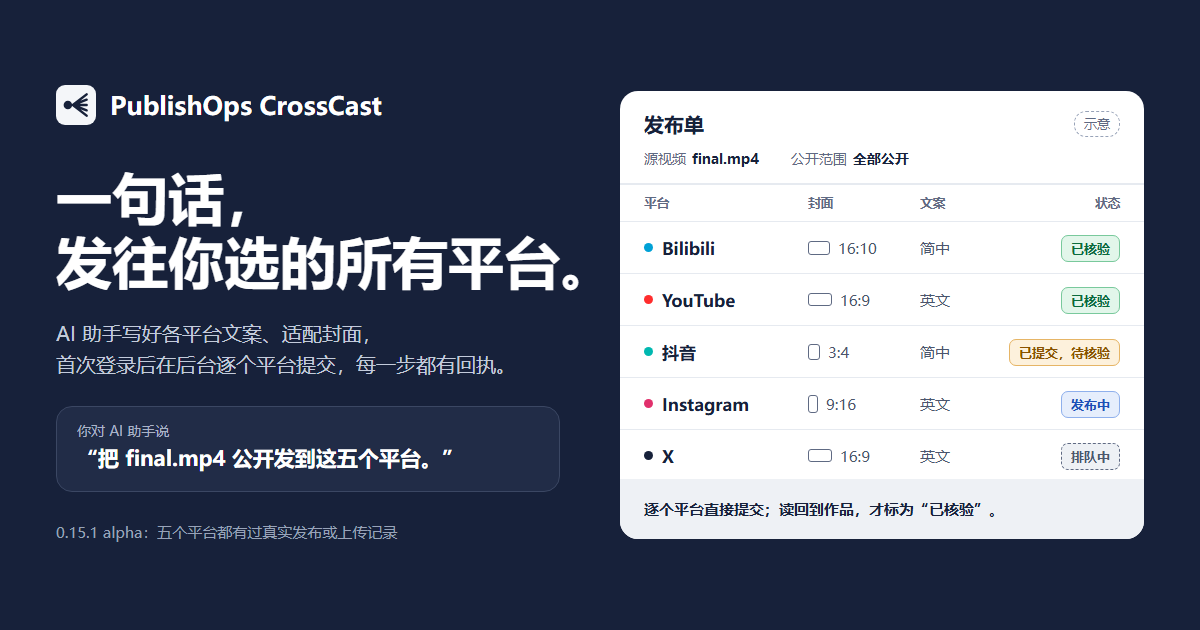
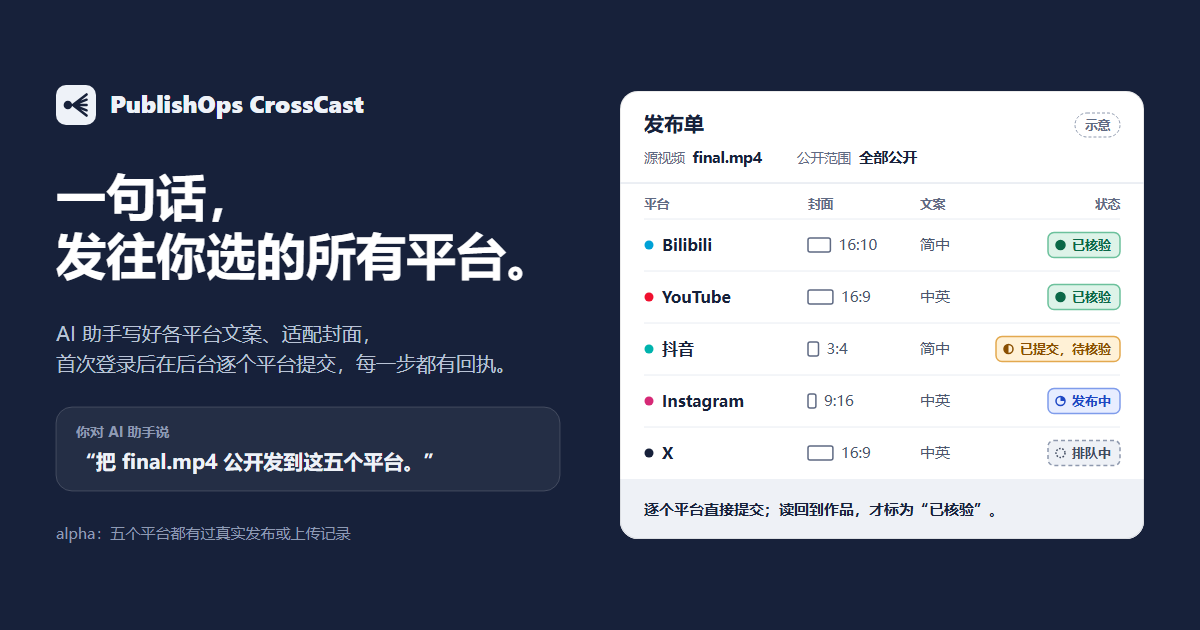
Correct the site and capabilities where they disagreed with the tool
Copy for a video in another language now reads as language_policy.route works,
with the original text first and then the platform's language, in the FAQ, the
example release plan, the hero images, FEATURES and DESIGN. The share image names
no version and is built from the new assets/og.svg. The cost FAQ lists what the
add-on covers, the cover step says Douyin and Instagram need a portrait cover, the
manual flow states the vpub init defaults, and capabilities no longer says there
is no free YouTube route. The alpha notes and READMEs say some real records come
from earlier versions, and the site mentions X's two websites.

Audit and patch from a separate session on this project; no design changes.

diff --git a/docs/site.js b/docs/site.js
@@ -20,11 +20,11 @@
     installPrompt: "幫我從 https://github.com/whitecarp/publishops-crosscast 安裝 PublishOps CrossCast，閱讀 skills/publishops-crosscast/SKILL.md 並執行 vpub doctor。然後把 final.mp4 公開發布到 B站、YouTube、抖音、Instagram 和 X，標題和簡介依平台來寫。",
     promptHint: "把 final.mp4 換成你的影片檔案；平台和公開範圍可以依需要修改。",
     ctaStart: "三步上手", ctaDocs: "閱讀文件",
-    alphaNote: "0.16.0 alpha：五個平台都有過真實發布或上傳記錄，但登入會過期，平台也可能臨時要求驗證，長時間無人值守還沒驗收。",
+    alphaNote: "0.16.0 alpha：五個平台都有過真實發布或上傳記錄（部分來自更早的版本），但登入會過期，平台也可能臨時要求驗證，長時間無人值守還沒驗收。",
     mfTitle: "發布單", mfTag: "示意", mfSrcVideo: "來源影片", mfSrcScript: "腳本", mfSrcScriptV: "簡體中文", mfSrcVis: "公開範圍", mfSrcVisV: "全部公開",
     mfColPlatform: "平台", mfColCover: "封面", mfColCopy: "文案", mfColState: "狀態",
     srCover: "封面：", srCopy: "文案語言：", srState: "狀態：",
-    langZh: "簡中", langEn: "英文",
+    langZh: "簡中", langBoth: "中英",
     pDy: "抖音",
     mfFoot: "逐一到各平台直接提交；讀回到作品，才標為「已核驗」。",
     howTitle: "你說一句，AI 助手去辦",
@@ -34,10 +34,10 @@
     s1a: "依平台各寫一版標題、簡介和標籤，直接提交到這兩個平台，並記錄每一步的回執。",
     s1n: "因為某個平台已登入就順手加上，或擅自改動公開範圍。",
     s2q: "封面依各平台尺寸調整一下，原圖別動。",
-    s2a: "依平台畫布另存一份封面，保留完整畫面。平台預覽仍可能裁切，提交前請看一眼。",
+    s2a: "依平台畫布另存一份封面，保留完整畫面。發抖音或 Instagram 還需要一張直式封面：AI 助手能畫就畫一張，不能畫就用 vpub covers portrait 從原圖挑內容重新排版。平台預覽仍可能裁切，提交前請看一眼。",
     s2n: "裁切、拉伸或覆蓋你的原圖。",
-    s3q: "B站和抖音用中文，YouTube 用英文。",
-    s3a: "依平台語言各寫一版：B站、抖音用簡體中文，YouTube、Instagram、X 用英文；要中英雙語時說一聲。",
+    s3q: "這支中文影片也發 YouTube，讓外國觀眾看得懂。",
+    s3a: "文案跟著影片語言走：B站、抖音用簡體中文，YouTube、Instagram、X 用英文；影片本身是別的語言時，先保留原文，再附上平台語言的譯文。所以這支在 YouTube 上是中文在前、英文在後。",
     s3n: "翻譯影片裡的配音或字幕。",
     s4q: "上次那支到底發出去沒有？",
     s4a: "查本機回執，依平台告訴你到了哪一步；能讀回的，再到平台上核對。",
@@ -59,8 +59,8 @@
     pIgRoute: "CLI 背景瀏覽器，封面在手機上改", pXRoute: "只能用 Media Studio（需訂閱）",
     testedPub: "已發布", testedYt: "API 和免費路徑", paused: "暫停",
     pTtNote: "CLI 會拒絕 TikTok 的登入和發布請求。",
-    platNote1: "YouTube：免費路徑由背景 Chrome 操作 YouTube Studio；官方 API 路徑需要付費附加元件。依 Google 的規定，2020 年 7 月 28 日之後建立、又沒通過審查的 API 專案，上傳的影片會被鎖定為私人。",
-    platNote2: "X：帳號必須已訂閱並能進入 Media Studio；未訂閱帳號的影片上限是 140 秒、512 MB，本工具不支援。",
+    platNote1: "YouTube：免費路徑由背景 Chrome 操作 YouTube Studio；官方 API 路徑需要付費附加元件。依 Google 的規定，2020 年 7 月 28 日之後建立、又沒通過審查的 API 專案，上傳的影片會被鎖定為私人。免費路徑目前只用一支私人短片實測過；公開上傳、上傳時加入播放清單和排程發布還沒在真實頻道上試過。",
+    platNote2: "X：帳號必須已訂閱並能進入 Media Studio；未訂閱帳號的影片上限是 140 秒、512 MB，本工具不支援。X 目前有兩個版本的網站，CrossCast 兩種都支援；新版還沒有在已登入帳號上試過。",
     platNote3: "抖音：長時間維持登入的穩定性還在驗收；網頁上傳中斷後不能續傳，要先檢查既有的草稿。",
     platNote4: "暫不支援：TikTok、YouTube 資訊卡和可點擊片尾、自動或批次的私訊和按讚、完整歷史匯出。",
     startTitle: "三步，從安裝到第一次發布",
@@ -70,7 +70,7 @@
     st3: "說一句，直接發布", st3d: "告訴 AI 助手影片檔案、要發的平台和公開範圍，它就逐一到各平台提交並記錄回執。第一次登入各平台時，掃碼和驗證碼由你完成；之後 CLI 在背景沿用登入。",
     copyInstallA: "複製安裝指令", copyDoctorA: "複製 vpub doctor", copyCapsA: "複製 vpub capabilities",
     manualSum: "想自己動手？看手動流程",
-    manualNote: "<code>--dry-run</code> 不會上傳。<code>response.json</code> 由 AI 助手依 <code>request.json</code> 裡的範本撰寫。",
+    manualNote: "<code>--dry-run</code> 不會上傳。<code>response.json</code> 由 AI 助手依 <code>request.json</code> 裡的範本撰寫。<code>vpub init</code> 預設宣告為 AI 生成內容，YouTube 預設私人，Instagram 和 X 跟隨帳號設定；一般影片加 <code>--ai-generated no</code>，要改公開範圍就在 <code>vpub init</code> 之後馬上改 <code>publish.json</code> 裡的 <code>visibility</code>。",
     faqTitle: "常見問題",
     faqSub: "沒找到答案？可以到 <a href=\"" + REPO + "/issues\" rel=\"noopener\">GitHub</a> 提問，提問前請先移除帳號和私密資訊。",
     q0: "發布前還要我再確認嗎？", a0: "不用。你說要發布，就是授權：它依你說的平台、帳號和公開範圍直接提交。只有內容、帳號、平台、受眾或任務範圍變了，它才會再問你。想先看一眼，就說「先別發」，或用 <code>--dry-run</code> 預演。",
@@ -80,9 +80,9 @@
     q4: "進了佇列或有了回執，就算發出去了嗎？", a4: "不算。排隊只說明任務已記錄；本機回執記錄每一步的證據，但它本身不代替平台證據。是否發布成功，以平台頁面讀回或平台 API 為準。",
     q5: "會改動我的原影片和封面嗎？", a5: "不會。調整後的封面另存為新檔案，原圖保持不變；發 Instagram 時直接使用原影片，不轉檔。",
     q6: "會不會發到我沒選的平台？", a6: "不會因為某個平台已登入就把它加進來。平台、帳號和公開範圍由你選定；內容、帳號、平台、受眾或任務範圍有變化時，會重新請你確認。",
-    q7: "要花錢嗎？", a7: "CrossCast 核心開源免費（MIT）；X、Instagram 和 YouTube 的官方 API 路徑是付費附加元件。你的 AI 助手訂閱、X 的訂閱（發布要用 Media Studio），以及 YouTube API 的配額可能另有費用或限制，本專案不承諾免費或無限使用。",
+    q7: "要花錢嗎？", a7: "CrossCast 核心開源免費（MIT）。付費附加元件包括 X、Instagram 和 YouTube 的官方 API 路徑、營運報告、完整讀取、郵件提醒、播放清單排序和 YouTube 待審核留言佇列。你的 AI 助手訂閱、X 的訂閱（發布要用 Media Studio），以及 YouTube API 的配額可能另有費用或限制，本專案不承諾免費或無限使用。",
     q8: "支援留言、私訊和數據嗎？TikTok 呢？", a8: "支援讀留言並回覆、按讚和收藏，在抖音、Instagram、X 上讀發私訊，查看作品數據，營運報告屬於付費附加元件；各平台能做的不一樣，每次只處理你授權的那一則，不會批次傳送。TikTok 目前暫停支援。",
-    q9: "現在能放心用於正式發布嗎？", a9: "目前是 0.16.0 alpha。五個平台都有過真實發布或上傳記錄，但登入會過期，平台也可能臨時要求驗證，長時間無人值守還沒驗收。第一次用時，可以先用預演（<code>--dry-run</code>）看一遍方案，再正式發布。",
+    q9: "現在能放心用於正式發布嗎？", a9: "目前是 0.16.0 alpha。五個平台都有過真實發布或上傳記錄（部分來自更早的版本），但登入會過期，平台也可能臨時要求驗證，長時間無人值守還沒驗收。第一次用時，可以先用預演（<code>--dry-run</code>）看一遍方案，再正式發布。",
     endTitle: "核心開源免費，歡迎一起完善",
     endSub: "MIT 授權。遇到問題或想支援新平台，歡迎到 GitHub 提 Issue；提交前請先移除帳號和私密資訊。",
     ctaGh: "在 GitHub 查看", ctaIssue: "回報問題",
@@ -103,11 +103,11 @@
     installPrompt: "Install PublishOps CrossCast from https://github.com/whitecarp/publishops-crosscast, read skills/publishops-crosscast/SKILL.md and run vpub doctor. Then publish final.mp4 publicly to Bilibili, YouTube, Douyin, Instagram and X, with titles and descriptions written for each platform.",
     promptHint: "Replace final.mp4 with your video file, and change the platforms or visibility as you like.",
     ctaStart: "Get started in 3 steps", ctaDocs: "Read the docs",
-    alphaNote: "0.16.0 alpha: all five platforms have real publishing or upload records, but sign-ins expire, platforms may ask for verification at any time, and long unattended runs have not been validated.",
+    alphaNote: "0.16.0 alpha: all five platforms have real publishing or upload records, some from earlier versions, but sign-ins expire, platforms may ask for verification at any time, and long unattended runs have not been validated.",
     mfTitle: "Release plan", mfTag: "Example", mfSrcVideo: "Source", mfSrcScript: "Script", mfSrcScriptV: "Simplified Chinese", mfSrcVis: "Visibility", mfSrcVisV: "All public",
     mfColPlatform: "Platform", mfColCover: "Cover", mfColCopy: "Copy", mfColState: "Status",
     srCover: "Cover: ", srCopy: "Copy language: ", srState: "Status: ",
-    langZh: "Chinese", langEn: "English",
+    langZh: "ZH", langBoth: "ZH + EN",
     pDy: "Douyin",
     mfFoot: "Submitted platform by platform. Marked Verified only after the work is read back.",
     howTitle: "Say it once, your AI assistant handles it",
@@ -117,10 +117,10 @@
     s1a: "Writes a title, description and tags for each platform, submits to both directly, and keeps a receipt for every step.",
     s1n: "Add a platform just because you are signed in to it, or quietly change the visibility.",
     s2q: "Fit the cover to each platform, and leave the original alone.",
-    s2a: "Saves a new cover for each platform canvas, keeping the whole image. Platform previews may still crop it, so take a look before submitting.",
+    s2a: "Saves a new cover for each platform canvas, keeping the whole image. Douyin and Instagram also need a portrait cover: your assistant draws one if it can, or builds one from parts of your image with vpub covers portrait. Platform previews may still crop it, so take a look before submitting.",
     s2n: "Crop, stretch or overwrite your original image.",
-    s3q: "Chinese for Bilibili and Douyin, English for YouTube.",
-    s3a: "Writes each platform's copy in its language: Simplified Chinese for Bilibili and Douyin, English for YouTube, Instagram and X. Ask if you want both languages.",
+    s3q: "Post this Chinese video to YouTube too, so English viewers can follow it.",
+    s3a: "Copy follows the video's language: Simplified Chinese for Bilibili and Douyin, English for YouTube, Instagram and X. When the video is in another language, the original text comes first, followed by a translation, so on YouTube this one reads Chinese first, then English.",
     s3n: "Translate the video's voice-over or subtitles.",
     s4q: "Did my last video actually go out?",
     s4a: "Reads the local receipts and tells you how far each platform got, then checks the platform itself where a readback is available.",
@@ -142,8 +142,8 @@
     pIgRoute: "CLI background browser; cover changed on your phone", pXRoute: "Media Studio only (subscription required)",
     testedPub: "Published", testedYt: "API and free route", paused: "Paused",
     pTtNote: "The CLI refuses TikTok sign-in and posting requests.",
-    platNote1: "YouTube: the free route uses YouTube Studio in a background Chrome; official API routes need the paid add-on. Under Google's rules, videos uploaded by an API project created after July 28, 2020 that has not passed Google's audit are locked to private.",
-    platNote2: "X: the account must be subscribed and able to open Media Studio. Accounts without it are limited to 140-second, 512 MB videos, which this tool does not support.",
+    platNote1: "YouTube: the free route uses YouTube Studio in a background Chrome; official API routes need the paid add-on. Under Google's rules, videos uploaded by an API project created after July 28, 2020 that has not passed Google's audit are locked to private. The free route has only been run for real with a short private clip; public uploads, playlists at upload and scheduling have not been tried on a real channel yet.",
+    platNote2: "X: the account must be subscribed and able to open Media Studio. Accounts without it are limited to 140-second, 512 MB videos, which this tool does not support. X currently serves two versions of its website; CrossCast handles both, and the rebuilt one has not been tried on a signed-in account.",
     platNote3: "Douyin: long-term sign-in stability is still being validated, and an interrupted web upload cannot resume, so check existing drafts first.",
     platNote4: "Not available yet: TikTok, YouTube cards and clickable end screens, automatic or bulk messages and likes, and full history export.",
     startTitle: "Three steps from install to your first release",
@@ -153,7 +153,7 @@
     st3: "Say it, and it publishes", st3d: "Tell your AI assistant the video file, the platforms and the visibility, and it submits to each platform in turn and keeps receipts. The first time you sign in to each platform, you handle QR codes and verification codes; after that, the CLI reuses the sign-in in the background.",
     copyInstallA: "Copy install command", copyDoctorA: "Copy vpub doctor", copyCapsA: "Copy vpub capabilities",
     manualSum: "Prefer to do it yourself? See the manual flow",
-    manualNote: "<code>--dry-run</code> does not upload. Your AI assistant writes <code>response.json</code> from the template in <code>request.json</code>.",
+    manualNote: "<code>--dry-run</code> does not upload. Your AI assistant writes <code>response.json</code> from the template in <code>request.json</code>. <code>vpub init</code> declares the video as AI-generated, keeps YouTube private and follows the account's setting on Instagram and X. For an ordinary video add <code>--ai-generated no</code>, and to change visibility, edit <code>visibility</code> in <code>publish.json</code> right after <code>vpub init</code>.",
     faqTitle: "Questions",
     faqSub: "Not covered here? <a href=\"" + REPO + "/issues\" rel=\"noopener\">Ask on GitHub</a>, and remove account details and private information first.",
     q0: "Do I have to approve each release?", a0: "No. Asking it to publish is the authorization: it submits directly with the platforms, accounts and visibility you named, and only asks again if the content, account, platform, audience or scope changes. To look first, say \u201cdon\u2019t post yet\u201d, or run a <code>--dry-run</code>.",
@@ -163,9 +163,9 @@
     q4: "If it is queued or has a receipt, is it published?", a4: "No. Queued only means the task is recorded. Local receipts record the evidence for each step but are not proof from the platform. Whether it was published is decided by reading back the platform page or the platform API.",
     q5: "Will it change my original video or cover?", a5: "No. Fitted covers are saved as new files and your original image stays as it is. Instagram uploads use the original video without transcoding.",
     q6: "Could it post to a platform I didn't pick?", a6: "It will not add a platform just because you are signed in to it. You choose platforms, accounts and visibility; if the content, account, platform, audience or scope changes, it asks you again.",
-    q7: "Does it cost anything?", a7: "The CrossCast core is free and open source (MIT); official API routes for X, Instagram and YouTube are a paid add-on. Your AI assistant subscription, an X subscription (publishing needs Media Studio) and YouTube API quota may have their own costs or limits; this project does not promise free or unlimited use.",
+    q7: "Does it cost anything?", a7: "The CrossCast core is free and open source (MIT). The paid add-on covers official API routes for X, Instagram and YouTube, operations reports, complete reads, email reminders, playlist reordering and YouTube's held-for-review comment queue. Your AI assistant subscription, an X subscription (publishing needs Media Studio) and YouTube API quota may have their own costs or limits; this project does not promise free or unlimited use.",
     q8: "Does it handle comments, messages and stats? What about TikTok?", a8: "It can read and reply to comments, like and save works, read and send direct messages on Douyin, Instagram and X, and show work stats; operations reports are in the paid add-on. What's available differs by platform, each action covers only the single item you authorized, and nothing is sent in bulk. TikTok support is paused.",
-    q9: "Is it ready for real releases?", a9: "This is 0.16.0 alpha. All five platforms have real publishing or upload records, but sign-ins expire, platforms may ask for verification at any time, and long unattended runs have not been validated. The first time, you can run a dry run (<code>--dry-run</code>) to review the plan before publishing for real.",
+    q9: "Is it ready for real releases?", a9: "This is 0.16.0 alpha. All five platforms have real publishing or upload records, some from earlier versions, but sign-ins expire, platforms may ask for verification at any time, and long unattended runs have not been validated. The first time, you can run a dry run (<code>--dry-run</code>) to review the plan before publishing for real.",
     endTitle: "Free, open-source core. Help make it better.",
     endSub: "MIT licensed. Found a problem or want another platform? Open an issue on GitHub, and remove account details and private information first.",
     ctaGh: "View on GitHub", ctaIssue: "Report a problem",

diff --git a/docs/index.html b/docs/index.html
@@ -94,7 +94,7 @@
           <a class="btn btn-primary" href="#start" data-i18n="ctaStart">三步上手</a>
           <a class="btn btn-quiet" href="https://github.com/whitecarp/publishops-crosscast#readme" rel="noopener" data-doc data-i18n="ctaDocs">阅读文档</a>
         </div>
-        <p class="alpha-note" data-i18n="alphaNote">0.16.0 alpha：五个平台都有过真实发布或上传记录，但登录会过期，平台也可能临时要求验证，长时间无人值守还没验收。</p>
+        <p class="alpha-note" data-i18n="alphaNote">0.16.0 alpha：五个平台都有过真实发布或上传记录（部分来自更早的版本），但登录会过期，平台也可能临时要求验证，长时间无人值守还没验收。</p>
       </div>
 
       <figure class="manifest" aria-labelledby="mfTitle">
@@ -121,7 +121,7 @@
           <li class="mf-row" style="--i:1">
             <span class="mf-platform"><i class="dot dot-yt" aria-hidden="true"></i>YouTube</span>
             <span class="mf-cover"><span class="sr" data-i18n="srCover">封面：</span><i class="canvas" style="--ar:16/9" aria-hidden="true"></i>16:9</span>
-            <span class="mf-copy"><span class="sr" data-i18n="srCopy">文案语言：</span><span data-i18n="langEn">英文</span></span>
+            <span class="mf-copy"><span class="sr" data-i18n="srCopy">文案语言：</span><span data-i18n="langBoth">中英</span></span>
             <span class="mf-state"><span class="sr" data-i18n="srState">状态：</span><span class="stamp stamp-ok" data-i18n="stOk">已核验</span></span>
           </li>
           <li class="mf-row" style="--i:2">
@@ -133,13 +133,13 @@
           <li class="mf-row" style="--i:3">
             <span class="mf-platform"><i class="dot dot-ig" aria-hidden="true"></i>Instagram</span>
             <span class="mf-cover"><span class="sr" data-i18n="srCover">封面：</span><i class="canvas" style="--ar:9/16" aria-hidden="true"></i>9:16</span>
-            <span class="mf-copy"><span class="sr" data-i18n="srCopy">文案语言：</span><span data-i18n="langEn">英文</span></span>
+            <span class="mf-copy"><span class="sr" data-i18n="srCopy">文案语言：</span><span data-i18n="langBoth">中英</span></span>
             <span class="mf-state"><span class="sr" data-i18n="srState">状态：</span><span class="stamp stamp-run" data-i18n="stRun">发布中</span></span>
           </li>
           <li class="mf-row" style="--i:4">
             <span class="mf-platform"><i class="dot dot-x" aria-hidden="true"></i>X</span>
             <span class="mf-cover"><span class="sr" data-i18n="srCover">封面：</span><i class="canvas" style="--ar:16/9" aria-hidden="true"></i>16:9</span>
-            <span class="mf-copy"><span class="sr" data-i18n="srCopy">文案语言：</span><span data-i18n="langEn">英文</span></span>
+            <span class="mf-copy"><span class="sr" data-i18n="srCopy">文案语言：</span><span data-i18n="langBoth">中英</span></span>
             <span class="mf-state"><span class="sr" data-i18n="srState">状态：</span><span class="stamp stamp-queue" data-i18n="stQueue">排队中</span></span>
           </li>
         </ol>
@@ -167,12 +167,12 @@
           </li>
           <li class="pb-row">
             <p class="pb-say"><span class="sr" data-i18n="pbSaySr">你可以这样说：</span><q data-i18n="s2q">封面按各平台尺寸适配一下，原图别动。</q></p>
-            <p class="pb-do"><span class="pb-label" data-i18n="pbDo">它会做什么</span><span data-i18n="s2a">按平台画布另存一份封面，保留完整画面。平台预览仍可能裁切，提交前请看一眼。</span></p>
+            <p class="pb-do"><span class="pb-label" data-i18n="pbDo">它会做什么</span><span data-i18n="s2a">按平台画布另存一份封面，保留完整画面。发抖音或 Instagram 还需要一张竖版封面：AI 助手能画就画一张，不能画就用 vpub covers portrait 从原图挑内容重新排版。平台预览仍可能裁切，提交前请看一眼。</span></p>
             <p class="pb-not"><span class="pb-label" data-i18n="pbNot">它不会</span><span data-i18n="s2n">裁切、拉伸或覆盖你的原图。</span></p>
           </li>
           <li class="pb-row">
-            <p class="pb-say"><span class="sr" data-i18n="pbSaySr">你可以这样说：</span><q data-i18n="s3q">B站和抖音用中文，YouTube 用英文。</q></p>
-            <p class="pb-do"><span class="pb-label" data-i18n="pbDo">它会做什么</span><span data-i18n="s3a">按平台语言各写一版：B站、抖音用简体中文，YouTube、Instagram、X 用英文；要中英双语时说一声。</span></p>
+            <p class="pb-say"><span class="sr" data-i18n="pbSaySr">你可以这样说：</span><q data-i18n="s3q">这条中文视频也发 YouTube，让外国观众看得懂。</q></p>
+            <p class="pb-do"><span class="pb-label" data-i18n="pbDo">它会做什么</span><span data-i18n="s3a">文案跟着视频语言走：B站、抖音用简体中文，YouTube、Instagram、X 用英文；视频本身是别的语言时，先保留原文，再附上平台语言的译文。所以这条在 YouTube 上是中文在前、英文在后。</span></p>
             <p class="pb-not"><span class="pb-label" data-i18n="pbNot">它不会</span><span data-i18n="s3n">翻译视频里的配音或字幕。</span></p>
           </li>
           <li class="pb-row">
@@ -260,8 +260,8 @@
         </table>
       </div>
       <ul class="notes">
-        <li data-i18n="platNote1">YouTube：免费路径由后台 Chrome 操作 YouTube Studio；官方 API 路径需要付费附加组件。按 Google 的规定，2020 年 7 月 28 日之后创建、又没通过审核的 API 项目，上传的视频会被锁成私享。</li>
-        <li data-i18n="platNote2">X：账号必须已订阅并能进入 Media Studio；未订阅账号的视频上限是 140 秒、512 MB，本工具不支持。</li>
+        <li data-i18n="platNote1">YouTube：免费路径由后台 Chrome 操作 YouTube Studio；官方 API 路径需要付费附加组件。按 Google 的规定，2020 年 7 月 28 日之后创建、又没通过审核的 API 项目，上传的视频会被锁成私享。免费路径目前只用一条私享短片实测过；公开上传、上传时加入播放列表和定时发布还没在真实频道上试过。</li>
+        <li data-i18n="platNote2">X：账号必须已订阅并能进入 Media Studio；未订阅账号的视频上限是 140 秒、512 MB，本工具不支持。X 目前有两个版本的网站，CrossCast 两种都支持；新版还没有在已登录账号上试过。</li>
         <li data-i18n="platNote3">抖音：长时间保持登录的稳定性还在验收；网页上传中断后不能续传，要先检查已有草稿。</li>
         <li data-i18n="platNote4">暂不支持：TikTok、YouTube 卡片和可点击片尾、自动或批量的私信和点赞、完整历史导出。</li>
       </ul>
@@ -301,7 +301,7 @@ vpub plan ready.json
 vpub publish ready.json --dry-run
 vpub publish ready.json --confirm &lt;confirmation-code&gt;
 vpub verify RECEIPT_KEY</code></pre>
-        <p data-i18n-html="manualNote"><code>--dry-run</code> 不会上传。<code>response.json</code> 由 AI 助手按 <code>request.json</code> 里的模板撰写。</p>
+        <p data-i18n-html="manualNote"><code>--dry-run</code> 不会上传。<code>response.json</code> 由 AI 助手按 <code>request.json</code> 里的模板撰写。<code>vpub init</code> 默认声明为 AI 生成内容，YouTube 默认私享，Instagram 和 X 跟随账号设置；普通视频加 <code>--ai-generated no</code>，要改公开范围就在 <code>vpub init</code> 之后马上改 <code>publish.json</code> 里的 <code>visibility</code>。</p>
       </details>
     </div>
   </section>
@@ -320,9 +320,9 @@ vpub verify RECEIPT_KEY</code></pre>
         <details><summary data-i18n="q4">进了队列或有了回执，就算发出去了吗？</summary><p data-i18n="a4">不算。排队只说明任务已记录；本地回执记录每一步的证据，但它本身不代替平台证据。是否发布成功，以平台页面读回或平台 API 为准。</p></details>
         <details><summary data-i18n="q5">会改动我的原视频和封面吗？</summary><p data-i18n="a5">不会。适配后的封面另存为新文件，原图保持不变；发 Instagram 时直接使用原视频，不转码。</p></details>
         <details><summary data-i18n="q6">会不会发到我没选的平台？</summary><p data-i18n="a6">不会因为某个平台已登录就把它加进来。平台、账号和公开范围由你选定；内容、账号、平台、受众或任务范围有变化时，会重新请你确认。</p></details>
-        <details><summary data-i18n="q7">要花钱吗？</summary><p data-i18n="a7">CrossCast 核心开源免费（MIT）；X、Instagram 和 YouTube 的官方 API 路径是付费附加组件。你的 AI 助手订阅、X 的订阅（发布要用 Media Studio），以及 YouTube API 的配额可能另有费用或限制，本项目不承诺免费或无限使用。</p></details>
+        <details><summary data-i18n="q7">要花钱吗？</summary><p data-i18n="a7">CrossCast 核心开源免费（MIT）。付费附加组件包括 X、Instagram 和 YouTube 的官方 API 路径、运营报告、完整读取、邮件提醒、播放列表排序和 YouTube 待审核评论队列。你的 AI 助手订阅、X 的订阅（发布要用 Media Studio），以及 YouTube API 的配额可能另有费用或限制，本项目不承诺免费或无限使用。</p></details>
         <details><summary data-i18n="q8">支持评论、私信和数据吗？TikTok 呢？</summary><p data-i18n="a8">支持读评论并回复、点赞和收藏，在抖音、Instagram、X 上读发私信，查看作品数据，运营报告属于付费附加组件；各平台能做的不一样，每次只处理你授权的那一条，不会批量发送。TikTok 目前暂停支持。</p></details>
-        <details><summary data-i18n="q9">现在能放心用于正式发布吗？</summary><p data-i18n-html="a9">当前是 0.16.0 alpha。五个平台都有过真实发布或上传记录，但登录会过期，平台也可能临时要求验证，长时间无人值守还没验收。第一次用时，可以先用预演（<code>--dry-run</code>）看一遍方案，再正式发布。</p></details>
+        <details><summary data-i18n="q9">现在能放心用于正式发布吗？</summary><p data-i18n-html="a9">当前是 0.16.0 alpha。五个平台都有过真实发布或上传记录（部分来自更早的版本），但登录会过期，平台也可能临时要求验证，长时间无人值守还没验收。第一次用时，可以先用预演（<code>--dry-run</code>）看一遍方案，再正式发布。</p></details>
       </div>
     </div>
   </section>

diff --git a/src/video_publisher/cli.py b/src/video_publisher/cli.py
@@ -904,7 +904,7 @@ def capabilities():
             "email": "Paid add-on. Gmail only, disabled by default. Enable only on explicit request; no ordinary-setup prompt. Host verifies the exact account and live send tool, helps install/connect a missing plugin or leaves email off. Self-send only. Works with any assistant's connected Gmail send tool: claim with its exact name, then call it once with the returned message. No Outlook, QQ, NetEase, SMTP or SMS. A TEST does not enable ongoing alerts.",
             "chapters": "Douyin CLI applies planned chapters after a durable published work ID is available; verify/resume completes a pending chapter step without reupload. Exact timing/title read-back; platform suggestions are not accepted automatically. Native Bilibili/Douyin/YouTube handoffs retained.",
             "youtube_studio_operations": "Without the paid add-on, YouTube works, stats, comments, replies, video and comment likes, saves, playlists, edits (title, description, thumbnail), and editing or deleting the channel's own comments run on YouTube's own pages in the background browser. Comments are those Studio loaded; reordering a playlist and the held-for-review queue need the add-on. Reads and playlist create, rename, add, remove and delete were checked on a real channel; other changes have not been tried on one.",
-            "existing_work_edits": "vpub edit: YouTube API metadata, Instagram captions, available X Edit action, Douyin portrait and chapters. One field group per request; verify-only never saves. X edit availability is platform-controlled; no automatic repost.",
+            "existing_work_edits": "vpub edit: YouTube title, description and thumbnail (Studio in the background browser, or the official API with the paid add-on), Instagram captions, available X Edit action, Douyin portrait and chapters. One field group per request; verify-only never saves. X edit availability is platform-controlled; no automatic repost.",
             "youtube_initial_permissions": "Upload, read and video/playlist management scopes are requested together; user approves in Google. Old limited tokens require reauthorization.",
             "youtube_category": "Explicit per-video category required; host-model selection, in-place revision and read-back. API validates assignability before upload; no People & Blogs fallback.",
             "playlists": "YouTube playlist list/items/create/update/add/remove/move/delete/verify: ordinary owned playlists, durable request IDs, no write retries; default private creation. Without the add-on they run on YouTube's own pages: remove takes the video ID, playlists need different titles, and move needs the add-on.",
@@ -925,7 +925,7 @@ def capabilities():
             "status": "vpub status reads local records only: any active stop, unfinished publications with the exact next command and upload progress, background browsers, pending messages, the last sync and snapshot disk use.",
             "cleanup": "vpub cleanup previews private video copies; --apply deletes only copies whose publications are all verified and whose original video is unchanged.",
             "suspended_platforms": {"tiktok": "Login test with a Hong Kong number was unsuccessful; see docs/TIKTOK_STATUS.md."},
-            "not_implemented": "Full historical analytics/inbox, a free background-browser route for YouTube, and YouTube cards/clickable end screens. Instagram mobile-cover replacement remains user-assisted. Douyin replies to nested replies are not supported.",
+            "not_implemented": "Full historical analytics/inbox and YouTube cards/clickable end screens. Instagram mobile-cover replacement remains user-assisted. Douyin replies to nested replies are not supported.",
             "interaction_rule": "Login/setup does not authorize comments, messages, likes or publication."}
 
 

diff --git a/src/video_publisher/operations.py b/src/video_publisher/operations.py
@@ -255,7 +255,7 @@ def capabilities():
             'comment_controls':{'bilibili':['like','unlike','pin','unpin'],'youtube':['edit-own','delete-own','review-queue','moderate-viewer'],'douyin':['like','unlike','delete-own-without-replies'],'instagram':['like','unlike'],'x':['like','unlike','hide-unhide']},
             'moderation_limits':'No verified Douyin/Instagram comment pin/hide control. YouTube viewer hold/approve and X hide/unhide each passed one live round trip on 2026-10-30, with original visibility restored. Unknown states stop writes; pending receipts require verify-action, or explicit resume-action after the unchanged original state is proven. No rejection or author ban; not broad-account acceptance.',
             'direct_messages':'dm list/read/send/verify: exact recipient, one language, CLI-owned Instagram/Douyin/X sessions; Bilibili upstream delegation (no live test this release). X dm unlock opens official PIN UI on explicit request. YouTube has no DM adapter. Visible outgoing messages do not prove recipient delivery/read.',
-            'works':'Bilibili published pages, YouTube uploads playlist pages, other platforms visible first page.',
+            'works':"Bilibili published pages; YouTube Studio's first content page, or upload-playlist pages with the paid add-on; other platforms visible first page.",
             'reply_pages':'comments replies: Bilibili and YouTube roots with next_cursor; browser replies remain bounded.',
             'comments':{'bilibili':'upstream CLI, paged threads','youtube':'Studio comments page in the background browser; official API, paged threads and replies, with the paid add-on',
                         'douyin':'CLI public work reads; Creator Center top-level replies and statistics','instagram':'CLI visible comments','x':'CLI visible conversation entries; parent ID is not exposed'},

diff --git a/docs/DESIGN.md b/docs/DESIGN.md
@@ -2,7 +2,7 @@
 
 - **定位**：静态项目介绍页（GitHub Pages，`docs/`），不是发布控制台。没有登录、真实发布按钮或表单，不收集密钥，无外部 CDN、字体或遥测。
 - **主张**：一句话，发往你选的所有平台。你说要发布就是授权，AI 助手逐个平台直接提交并记录回执；只有内容、账号、平台、受众或任务范围变化时才再问你。alpha 边界（登录会过期、平台可能临时要求验证、长时间无人值守未验收、TikTok 暂停）写在首屏和平台、FAQ 中。
-- **概念：发布单**。首屏右侧是一张示意发布单：一条视频、五个去向，每行写清封面画布（取自 `covers.py` 预设）、文案语言（B站/抖音简中，YouTube/Instagram/X 英文）和真实状态。页面其余部分只有纸和墨，颜色只用来表示状态。
+- **概念：发布单**。首屏右侧是一张示意发布单：一条视频、五个去向，每行写清封面画布（取自 `covers.py` 预设）、文案语言（示例是中文视频：B站/抖音简中，YouTube/Instagram/X 中文在前、英文在后）和真实状态。页面其余部分只有纸和墨，颜色只用来表示状态。
 - **结构**：首屏（标题、说明、可复制的一句话、发布单）→ 怎么用（你可以这样说 / 它会做什么 / 它不会）→ 状态（排队中 → 发布中 → 已提交，待核验 → 已核验，以及“遇到扫码/验证码/风控”和“结果不明”两条规则）→ 平台范围表 → 三步上手 → 常见问题 → 结尾 → 页脚（独立工具声明）。
 - **色彩**（`site.css` 的 `:root`）：纸 `#f4f6f9`、单据 `#ffffff`、墨 `#17213a`、次墨 `#4b566e` / `#5f6a83`、分隔线 `#d8dee8`。状态色：`idle` 灰（排队中）、`run` 蓝（发布中）、`pend` 琥珀（已提交待核验、alpha 提示）、`ok` 绿（已核验、可用）、`stop` 红（暂停）。平台小圆点只用于识别平台。深色模式跟随系统，是同一套 token 的反转（墨色桌面）。
 - **状态印章**：颜色 + 边框样式 + 圆形图标的填充程度（虚线空心 → 四分之一 → 一半 → 实心），不只靠颜色区分。
@@ -11,6 +11,6 @@
 - **布局**：≥1121px 双栏，以下单栏。发布单是容器查询（`container: mf`），卡片宽度小于 500px 时自动改为每个平台两行，任何语言都不会叠字。平台表在 ≤760px 改为每个平台一块，用 ARIA role 保留表格语义。
 - **多语言**：默认简体中文（HTML 本身就是简中，不启用脚本也完整）。`site.js` 内置繁體中文与 English 词典，覆盖正文、`aria-label`、标题和描述；`data-i18n-html` 只写入词典里的静态字符串。顶部“简 / 繁 / EN”同步 `aria-pressed`、`localStorage`（`crosscast-lang`）和 `?lang=` 参数；保存了非默认语言时，页面在切换完成前短暂隐藏，避免闪烁。繁体用语与 `README_ZH_TW.md` 一致（發布、帳號、影片）。
 - **可访问性**：跳转链接、可见焦点环；复制结果用 `role=status` 播报，失败时自动选中文字；发布单与平台表为读屏提供隐藏标签；`forced-colors` 下印章保留边框。
-- **分享图**：`docs/og.png`（1200×630）用于 `og:image` / `twitter:card`。GitHub 仓库的 Social preview 需要在仓库 Settings 里手动上传同一张图。
+- **分享图**：`docs/og.png`（1200×630）用于 `og:image` / `twitter:card`，由 `assets/og.svg` 在 Chrome 里截图生成；图上不写版本号，免得升级时过期。GitHub 仓库的 Social preview 需要在仓库 Settings 里手动上传同一张图。
 - **README 头图**：`assets/hero.svg`、`hero-zh-tw.svg`、`hero-en.svg` 与站点同一概念（左侧是你说的一句话，右侧是发布单），纯 SVG，系统字体回退栈，无脚本与外链。
 - **维护**：改文案时同时改 `index.html`（简中）和 `site.js` 里的 TW、EN 词典；新增 `data-i18n` 键时三种语言都要有。示意内容（平台、状态、画布）要和当前 CLI 能力一致，不写观众版没有的功能。

diff --git a/docs/FEATURES_EN.md b/docs/FEATURES_EN.md
@@ -91,7 +91,7 @@ Five-platform work listing; Bilibili/YouTube pagination and reply-page reads; ac
 | Capability | This release |
 | --- | --- |
 | Copywriting | Host-model request/apply, source-bound validation; no independent model API |
-| Language | Bilibili/Douyin → Simplified Chinese; YouTube/Instagram/X → English; bilingual opt-in |
+| Language | Bilibili/Douyin → Simplified Chinese; YouTube/Instagram/X → English; a video in another language automatically keeps its original text first |
 | Covers | Production artwork → platform canvases; no cropping; immutable snapshots and read-back per variant |
 | Existing-work edits | Metadata/cover changes retain the original work ID; privacy reduction preserved after actual read-back |
 | Playlists | YouTube `vpub playlist` on its own pages, or through the API with the add-on, plus upload-form selection by title; Bilibili collections through `vpub collection` |

diff --git a/README_EN.md b/README_EN.md
@@ -31,7 +31,7 @@
 </p>
 
 > [!IMPORTANT]
-> **0.16.0 alpha.** YouTube, Douyin, Instagram and X have all been published for real and read back, and Bilibili has been uploaded and verified with bili-cli; see the [validation record](docs/VALIDATION_EN.md). It is still alpha: sign-ins expire, platforms may ask for verification at any time, and long unattended runs have not been validated.
+> **0.16.0 alpha.** YouTube, Douyin, Instagram and X have all been published for real and read back, and Bilibili has been uploaded and verified with bili-cli, some of this with earlier versions; see the [validation record](docs/VALIDATION_EN.md). It is still alpha: sign-ins expire, platforms may ask for verification at any time, and long unattended runs have not been validated.
 
 ## 🚀 Start with one message
 

diff --git a/README.md b/README.md
@@ -31,7 +31,7 @@
 </p>
 
 > [!IMPORTANT]
-> **0.16.0 alpha。** YouTube、抖音、Instagram、X 都已真实发布并读回过，B站也用 bili-cli 上传并核验过，详见[验证记录](docs/VALIDATION.md)。它仍是 alpha：登录会过期，平台也可能临时要求验证，长时间无人值守还没验收。
+> **0.16.0 alpha。** YouTube、抖音、Instagram、X 都已真实发布并读回过，B站也用 bili-cli 上传并核验过（部分来自更早的版本），详见[验证记录](docs/VALIDATION.md)。它仍是 alpha：登录会过期，平台也可能临时要求验证，长时间无人值守还没验收。
 
 ## 🚀 一句话开始
 

diff --git a/README_ZH_TW.md b/README_ZH_TW.md
@@ -31,7 +31,7 @@
 </p>
 
 > [!IMPORTANT]
-> **0.16.0 alpha。** YouTube、抖音、Instagram、X 都已真實發布並讀回過，B站也用 bili-cli 上傳並核驗過，詳見[驗證記錄](docs/VALIDATION.md)。它仍是 alpha：登入會過期，平台也可能臨時要求驗證，長時間無人值守還沒驗收。
+> **0.16.0 alpha。** YouTube、抖音、Instagram、X 都已真實發布並讀回過，B站也用 bili-cli 上傳並核驗過（部分來自更早的版本），詳見[驗證記錄](docs/VALIDATION.md)。它仍是 alpha：登入會過期，平台也可能臨時要求驗證，長時間無人值守還沒驗收。
 
 ## 🚀 一句話開始
 
